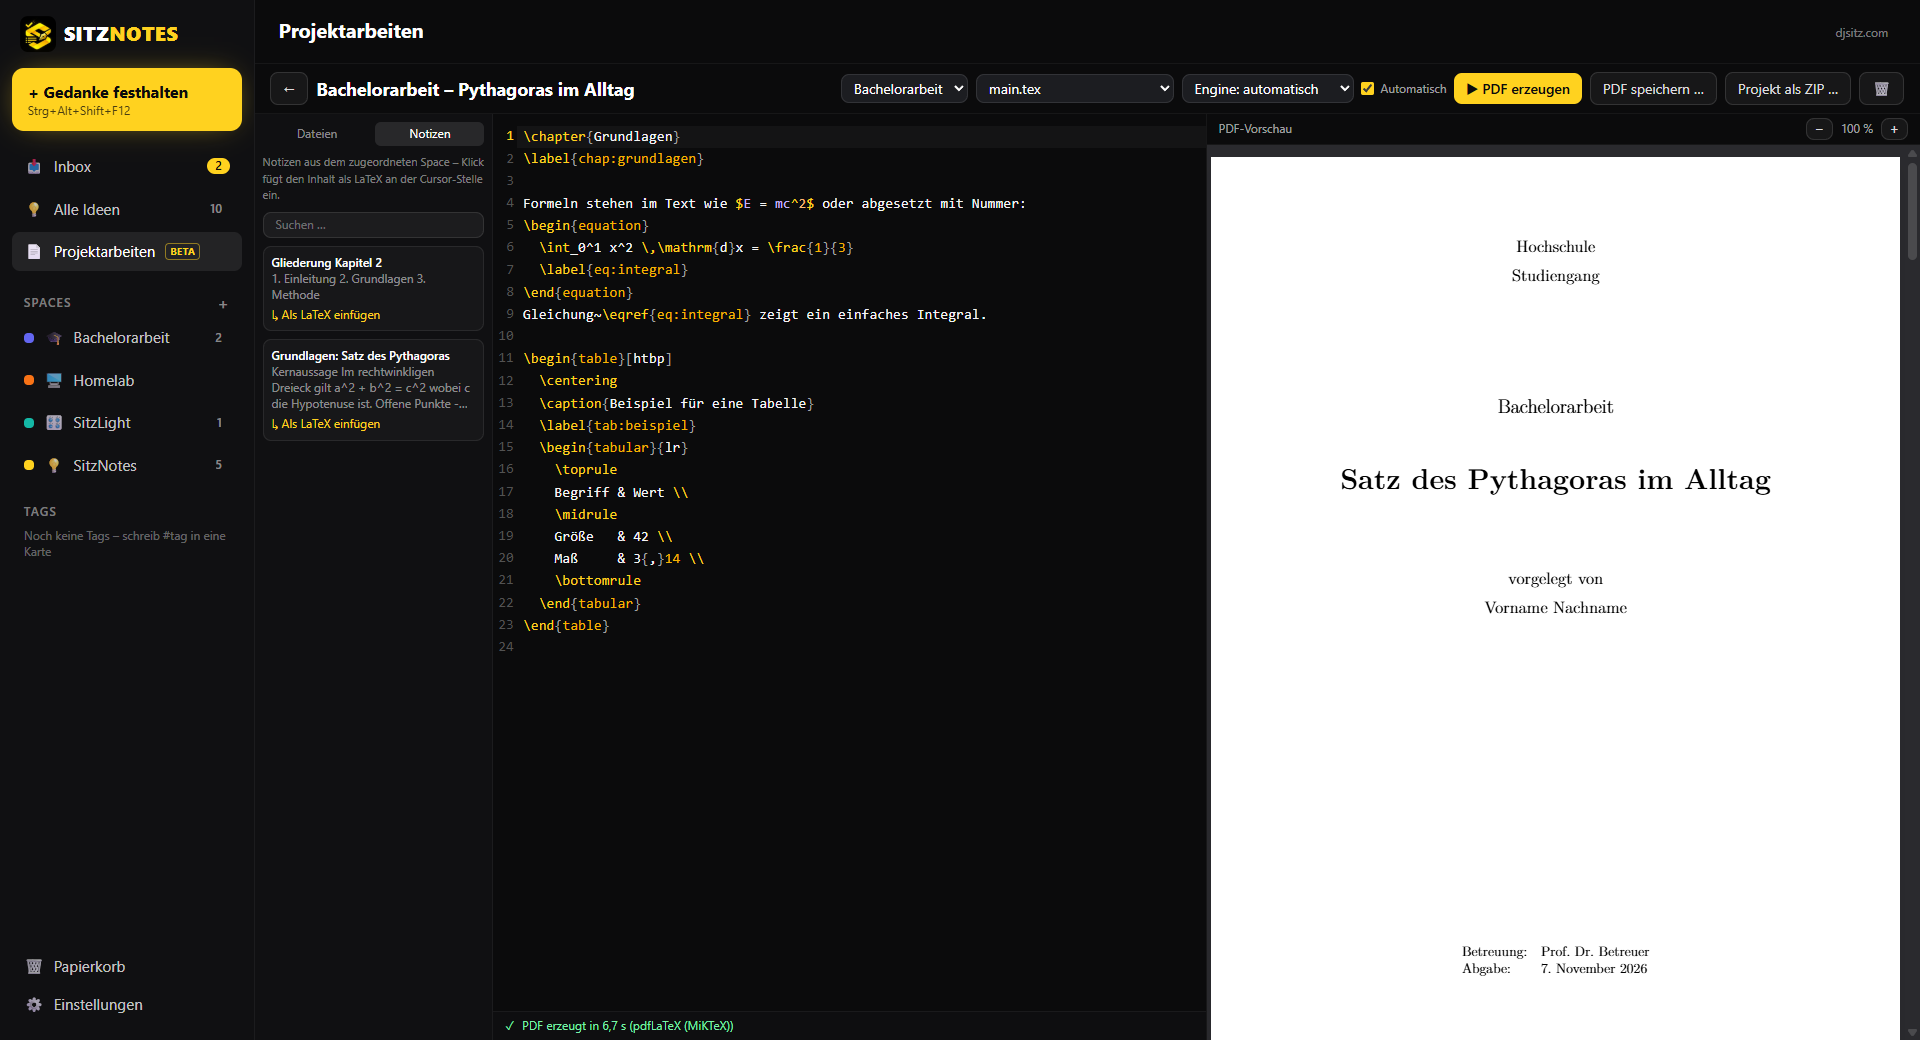
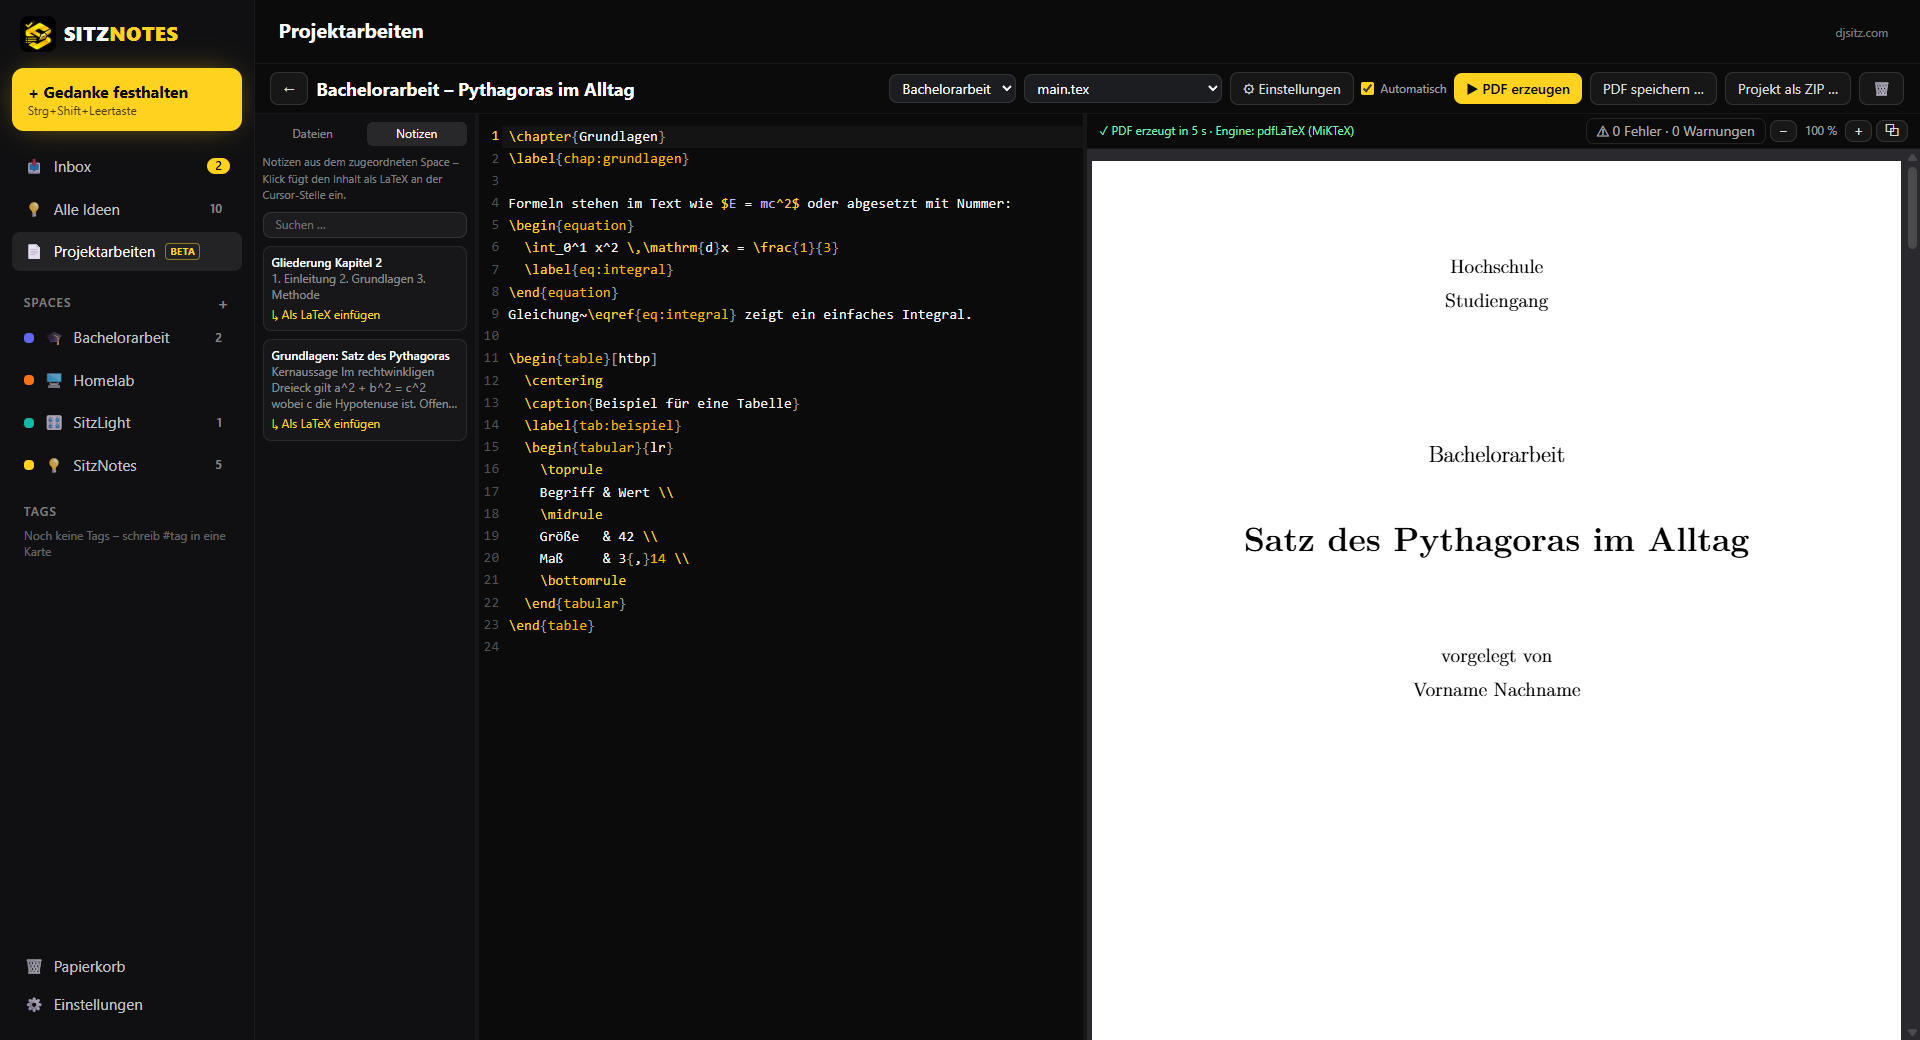
docs: README für v0.3.1 – LaTeX installieren, Projektarbeiten, neue Bildschirmfotos

diff --git a/README.md b/README.md
@@ -79,7 +79,7 @@ mit Versionsnummer und Neuerungen – **„Jetzt installieren"** oder **„Spät
 Selbst suchen: **Einstellungen → Updates → „Nach Updates suchen"**; die automatische Suche (beim Start und alle 6 Stunden)
 lässt sich dort abschalten. Updates sind digital signiert – SitzNotes installiert nur Updates, die wirklich von SitzNotes stammen.
 
-Von Version 0.1.0 oder 0.2.0 aus installierst du 0.3.0 einmal von Hand: **einfach über die alte Version installieren – deine Daten bleiben erhalten**
+Von Version 0.1.0 oder 0.2.0 aus installierst du die aktuelle Version einmal von Hand: **einfach über die alte Version installieren – deine Daten bleiben erhalten**
 und werden automatisch ins neue Format übernommen (Link-, Bild-, Checklisten- und Fix-Karten werden zu normalen Gedanken mit diesem Inhalt).
 Nimm dafür **dasselbe Paket wie bei der ersten Installation** – wer mit dem `.msi` installiert hat, wieder das `.msi`, sonst die `setup.exe`.
 In-App-Updates erkennen das selbst.
@@ -133,11 +133,41 @@ Auf dem Mac jeweils **⌘** statt **Strg**.
 ## Projektarbeiten (Beta) – LaTeX
 
 - **Neue Projektarbeit:** Seitenleiste → **Projektarbeiten** → „Neue Projektarbeit", Vorlage **„Wissenschaftliche Arbeit (deutsch)"** oder **„Leer"** wählen.
-- **LaTeX-Engine:** Ist **MiKTeX**, **TeX Live** oder **MacTeX** installiert, nutzt SitzNotes diese automatisch (inkl. BibTeX und Biber). Sonst kommt das mitgelieferte **Tectonic** zum Einsatz: Beim **ersten** Erzeugen eines PDFs lädt es die benötigten LaTeX-Pakete einmalig aus dem Internet (etwa 40 MB, 1–2 Minuten), danach funktioniert alles **offline**. Die Engine lässt sich je Projektarbeit umstellen.
-- **Literaturverzeichnis:** Die Vorlage nutzt BibTeX (`literatur.bib`, `\cite{…}`) – das funktioniert mit allen Engines. biblatex/Biber geht mit einer installierten Distribution.
+- **LaTeX-Engine:** Ist **MiKTeX**, **TeX Live** oder **MacTeX** installiert, nutzt SitzNotes diese automatisch – **empfohlen** (siehe unten). Ohne Distribution kommt das mitgelieferte **Tectonic** als Notlösung für einfache Dokumente zum Einsatz: Beim ersten PDF lädt es benötigte Pakete einmalig (etwa 40 MB), danach offline. Engine je Projektarbeit unter **Einstellungen** wählbar (automatisch, pdfLaTeX, XeLaTeX, LuaLaTeX, Tectonic).
+- **Literatur, Glossare, Verzeichnisse:** biblatex/Biber (z. B. `style=apa`) und BibTeX, Glossare, Abkürzungs- und Symbolverzeichnisse (auch eigene) erzeugt SitzNotes automatisch und kompiliert so oft, bis alle Verweise stimmen – ohne dass Perl nötig ist.
+- **minted & Co.:** In den Einstellungen der Projektarbeit „**Externe Programme erlauben**" einschalten (Standard aus – nur für eigene, vertrauenswürdige Projekte). Dafür Python 3 installieren.
+- **Fehlerleiste** am unteren Rand der PDF-Vorschau: schließbar, über „⚠ … Fehler · … Warnungen" wieder zu öffnen, Fehler/Warnungen filterbar, Klick springt zur Stelle.
+- **Vorschau abdocken** (⧉) für den zweiten Monitor; Dateiliste und Vorschau per Trennlinie breiter oder schmaler ziehen.
 - **Import:** „Ordner importieren" bzw. „ZIP importieren" übernimmt ein bestehendes LaTeX-Projekt als **Kopie** – deine Originaldateien werden nie verändert.
 - **Sicherung:** Projektarbeiten sind in den automatischen Sicherungen, den Sicherungen vor Updates und im `.sitznotes`-Export enthalten.
 - Es ist eine **Beta**: Bitte bei wichtigen Arbeiten zusätzlich regelmäßig „Projekt als ZIP" exportieren und Fehler als Issue melden.
+
+## Projektarbeiten: LaTeX installieren
+
+Für Projektarbeiten wird eine **vollständige LaTeX-Distribution** empfohlen – **Windows: MiKTeX**, **macOS: MacTeX**.
+Das mitgelieferte Tectonic ist nur eine Notlösung (keine pdfTeX-Befehle wie `\pdfminorversion`, kein Biber, kein minted).
+Die gleiche Anleitung zeigt SitzNotes unter Projektarbeiten → „Anleitung anzeigen".
+
+**Windows (MiKTeX)**
+
+1. Installer von [miktex.org/download](https://miktex.org/download) laden und starten.
+2. „Nur für mich" installieren, „Fehlende Pakete automatisch installieren" = **Ja**.
+3. MiKTeX Console öffnen → **Nach Updates suchen** → installieren → unter Tasks **„Refresh file name database"**.
+4. SitzNotes neu starten.
+
+**macOS (MacTeX)**
+
+1. Paket von [tug.org/mactex](https://www.tug.org/mactex/) laden (mehrere GB) und installieren.
+2. Mit dem **TeX Live Utility** alle Aktualisierungen installieren.
+3. SitzNotes neu starten.
+
+Kleinere Alternative: [BasicTeX](https://www.tug.org/mactex/morepackages.html) – dann müssen benötigte Pakete nachinstalliert werden.
+
+**Optional für minted:** [Python 3](https://www.python.org/downloads/) installieren (Windows: „Add python.exe to PATH" anhaken), Paket `latexminted` über die Distribution installieren und in der Projektarbeit „Externe Programme erlauben" einschalten.
+
+**Prüfen:** Nach dem Kompilieren steht in der Kopfzeile der PDF-Vorschau „Engine: pdfLaTeX (MiKTeX)" bzw. „(TeX Live)" / „(MacTeX)".
+
+**Problemlösung:** Seltsame Fehler nach Updates (z. B. `\insert@pcolumn` bei Tabellen) → MiKTeX Console: Updates + „Refresh file name database"; hartnäckige Fälle in der Eingabeaufforderung `initexmf --update-fndb` und `initexmf --dump`. macOS: TeX Live Utility → Aktualisieren.
 
 ## Datenschutz
 
@@ -149,7 +179,7 @@ Auf dem Mac jeweils **⌘** statt **Strg**.
 ## Bekannte Einschränkungen
 
 - Installer sind noch nicht digital signiert (Hinweise oben bei der Installation); die Updates selbst sind signiert.
-- Projektarbeiten sind eine **Beta**. Mit dem mitgelieferten Tectonic gibt es kein Biber (biblatex) – dafür BibTeX/natbib nutzen oder MiKTeX/TeX Live installieren.
+- Projektarbeiten sind eine **Beta**. Mit dem mitgelieferten Tectonic gibt es kein Biber, keine pdfTeX-Befehle und kein minted – für Abschlussarbeiten MiKTeX bzw. MacTeX installieren (siehe oben).
 - Noch nicht enthalten: iPhone/iPad, Sprachaufnahme, Zeichnen, Mindmap/Canvas, Wireframes, Termine und Erinnerungen – diese kommen in späteren Versionen.
 - Kein automatischer Abgleich zwischen Geräten – Übertragung per Export/Import.
 
